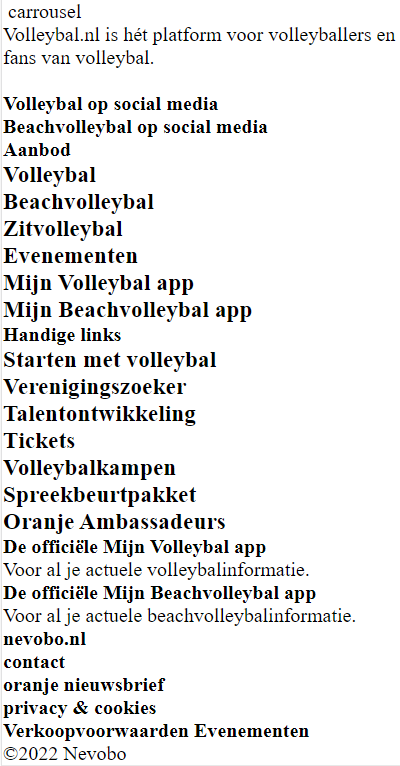
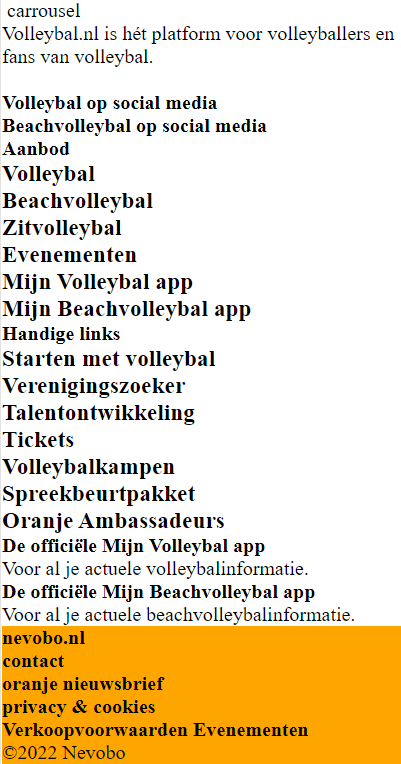
Add files via upload

diff --git a/index.html b/index.html
@@ -154,9 +154,9 @@
 				<li><h4>privacy & cookies</h4></li>
 				<li><h4>Verkoopvoorwaarden Evenementen</h4></li>
 			</ul>
+			<p>©2022 Nevobo</p>
 		</section>
 
-		<p>©2022 Nevobo</p>
 
 	</footer>
 

diff --git a/styles/style.css b/styles/style.css
@@ -110,3 +110,10 @@ main img {
 }
  
 
+
+
+
+
+footer section:nth-of-type(4) {
+	background-color: orange;
+}

diff --git a/README.md b/README.md
@@ -285,6 +285,8 @@ Nb. Door *open* toe te voegen aan een *details* element kun je deze standaard op
 
   Ook heb ik het favicon veranderd naar het volleybal.nl favicon. Zo lijkt de website nu precies hetzelfde als je ze allebei open hebt staan in de browser.
 
+  In de footer moet nog veel gebeuren qua CSS. Ik heb nu alleen de laatste section met ul een background-color gegeven van orange, want zo staat het ook op de volleybal.nl site.
+
   <img src="readme-images/css1.PNG" width="375px" alt="eerste deel CSS code">
   <img src="readme-images/css2.PNG" width="375px" alt="tweede deel CSS code">
   <img src="readme-images/html1.PNG" width="375px" alt="eerste deel Html code met favicon bovenin">
@@ -303,11 +305,16 @@ Nb. Door *open* toe te voegen aan een *details* element kun je deze standaard op
   ### Agenda voor meeting
   samen met je groepje opstellen
 
-  | student 1 Donna Baijens     | student 2          | student 3    | student 4        |
-  | ---                         | ---                | ---          | ---              |
-  | dit bespreken               | en dit             | en ik dit    | en dan ik dat    |
-  | en dat ook nog              | dit als er tijd is | nog een punt | dit wil ik zeker |
-  | ...                         | ...                | ...          | ...              |
+  | student 1 Donna Baijens                                         | student 2 Morpheus Seedo        | student 3 Ruby Heiting   | 
+  | ---                                                             | ---                             | ---                      | 
+  | carrousel met plaatjes                                          | Hoe kan ik meerdere img's in 
+                                                                      een section selecteren, terwijl 
+                                                                      er zoveel meerdere sections als 
+                                                                      img's in dezelfde footer (maar 
+                                                                      wel aparte section en/of 
+                                                                      article) staan?                 | klikbare bolletjes onder      carrousel                | 
+  | lijstjes onderaan hoe ik die moet vormgeven qua h3, h4 etc.     | ...                             | werkbare filter knoppen bij items             | 
+  | link met plaatjes, tekst, kop (en datum)                        | ...                             | ...                      | 
 
 
   ### Verslag van meeting
